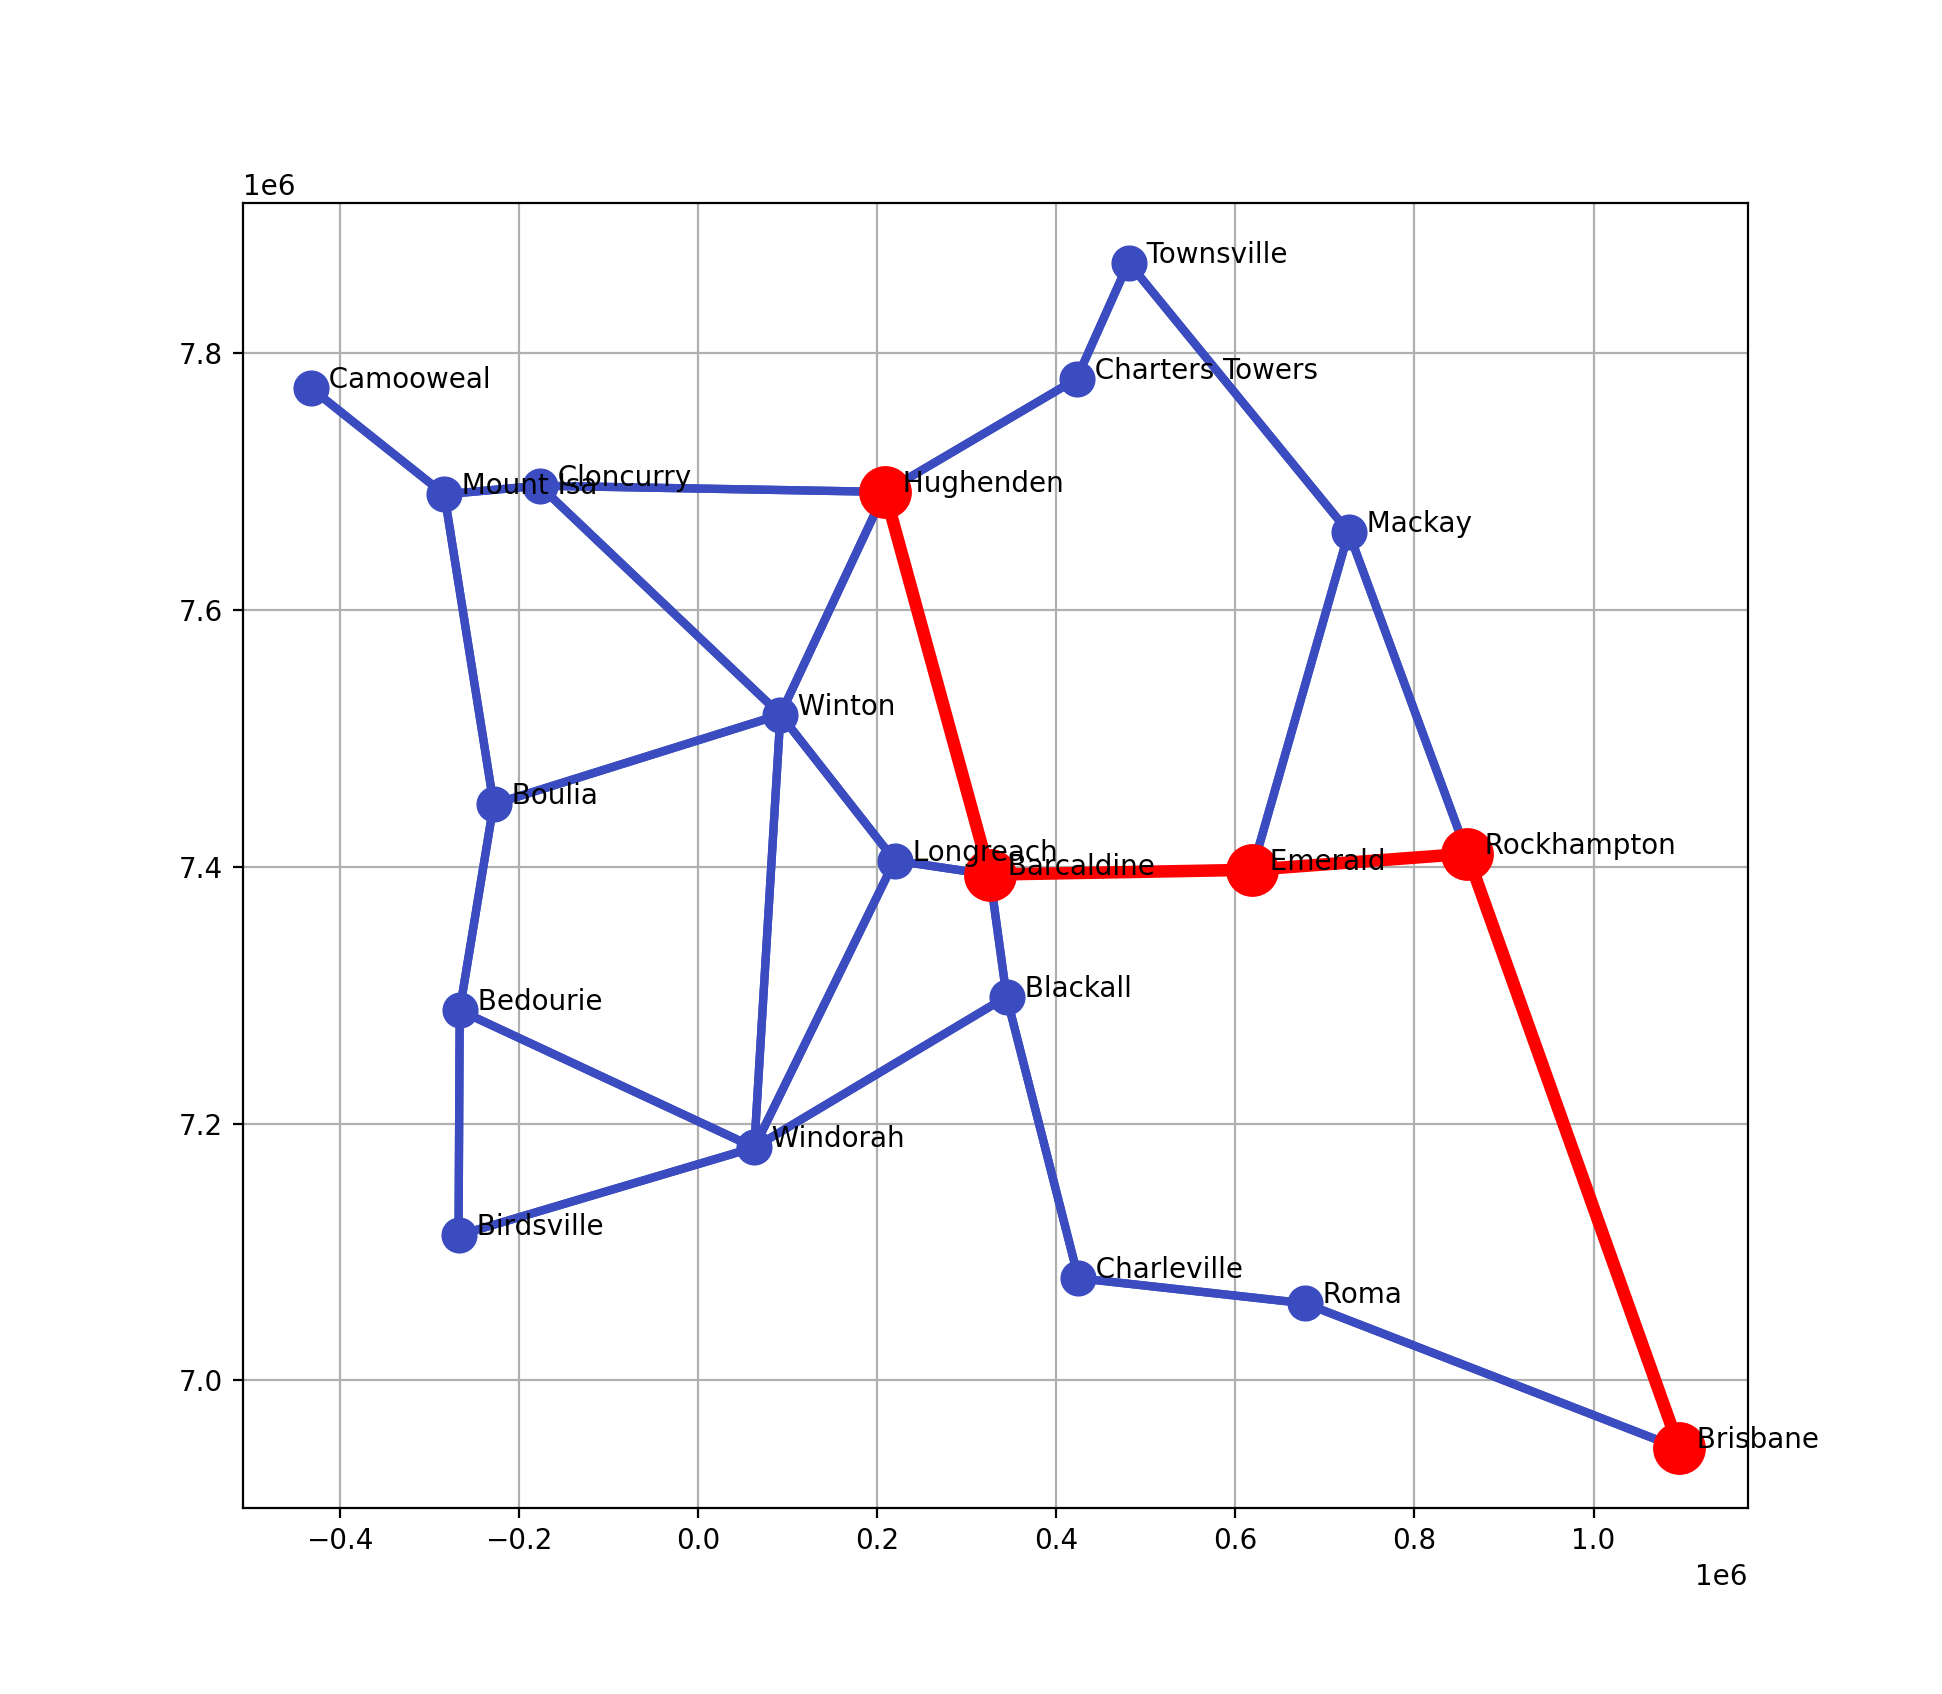
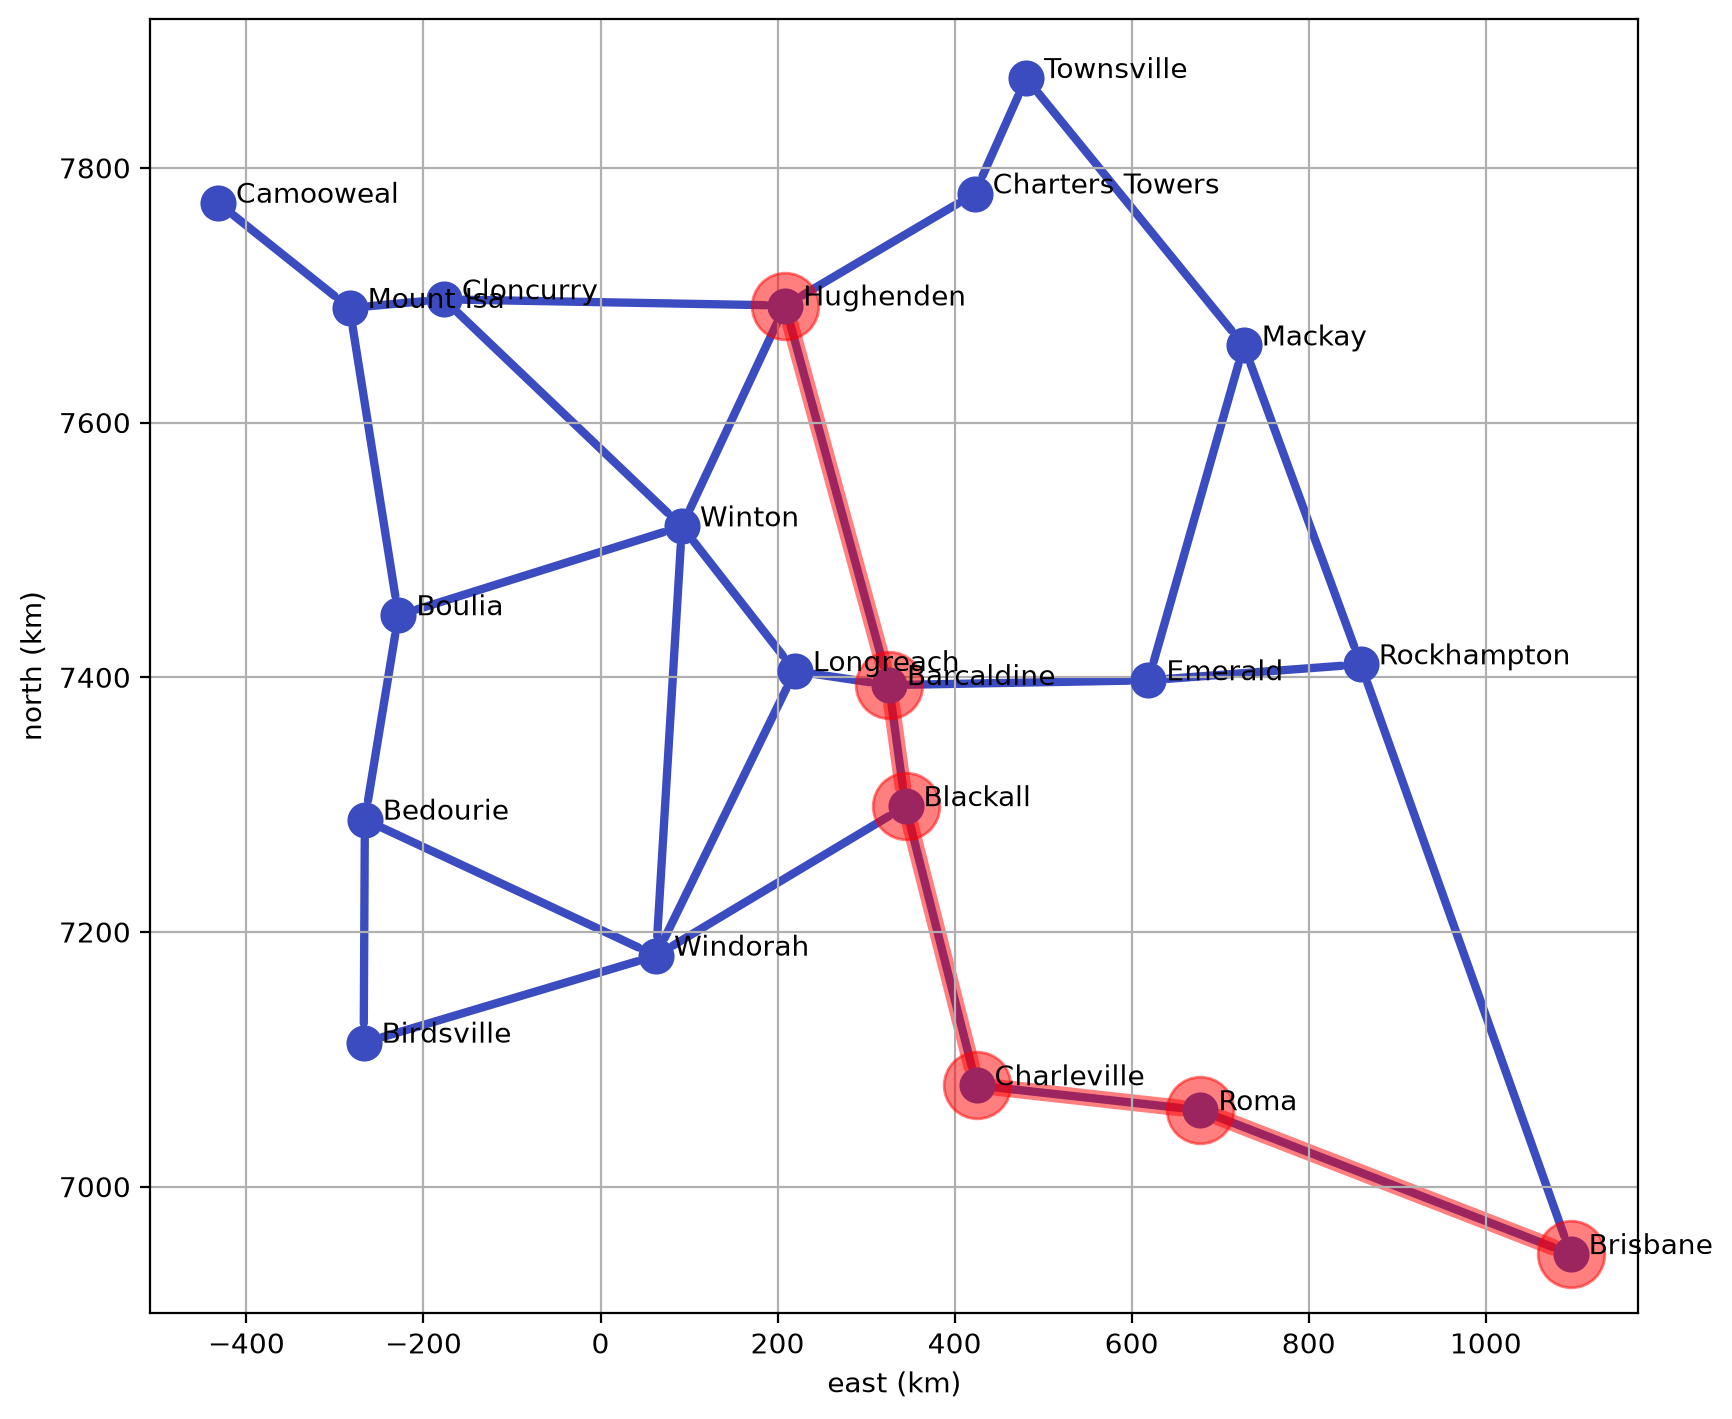
docs: the Queensland figure shows the shortest route, alt text for the figures
The figure was drawn from places.json, whose coordinates are in metres while
the road distances are in km, so the A* heuristic was far too large and the
route it found, 1,759 km via Rockhampton, was not the shortest.  The notebook
and the snippet use queensland.json, in km: 1,659 km via Roma.  The figure is
drawn from that, with the axes in km.

The README figures have a description as their alternative text.

diff --git a/README.md b/README.md
@@ -56,7 +56,7 @@ This needs Python 3.9 or later.  The dependencies, NumPy, Matplotlib and Spatial
 
 ### A small example: routing through towns in Queensland
 
-![road network](https://github.com/petercorke/pgraph-python/raw/main/examples/roads.png)
+![Map of 20 towns in Queensland as blue circles joined by roads, with the shortest route from Hughenden to Brisbane, 1,659 km via Barcaldine, Blackall, Charleville and Roma, highlighted in red](https://github.com/petercorke/pgraph-python/raw/main/examples/roads.png)
 
 ```python
 from pgraph import UGraph
@@ -83,7 +83,7 @@ The data file and the complete example are in the notebook [`examples/roads.ipyn
 
 ### A bigger example: routing through central London
 
-![route through central London](https://github.com/petercorke/pgraph-python/raw/main/docs/figs/london_route.png)
+![Map of central London as a network of grey streets, with two routes between Buckingham Palace and Tower Bridge: a solid blue route of 5,515 m via Big Ben, and a dashed orange route of 5,948 m back through the north of the area, with five landmarks labelled](https://github.com/petercorke/pgraph-python/raw/main/docs/figs/london_route.png)
 
 A directed graph of the road network of central London, taken from [OpenStreetMap](https://www.openstreetmap.org/copyright), and the shortest drive between Buckingham Palace and Tower Bridge, there (solid) and back (dashed).  The two routes differ in length, 5,515 m and 5,948 m, because of the one-way streets.  The notebook [`examples/london.ipynb`](https://github.com/petercorke/pgraph-python/blob/main/examples/london.ipynb) builds the graph from the map data, keeps the part of it that can be driven around in, and plans with `A*`.
 
